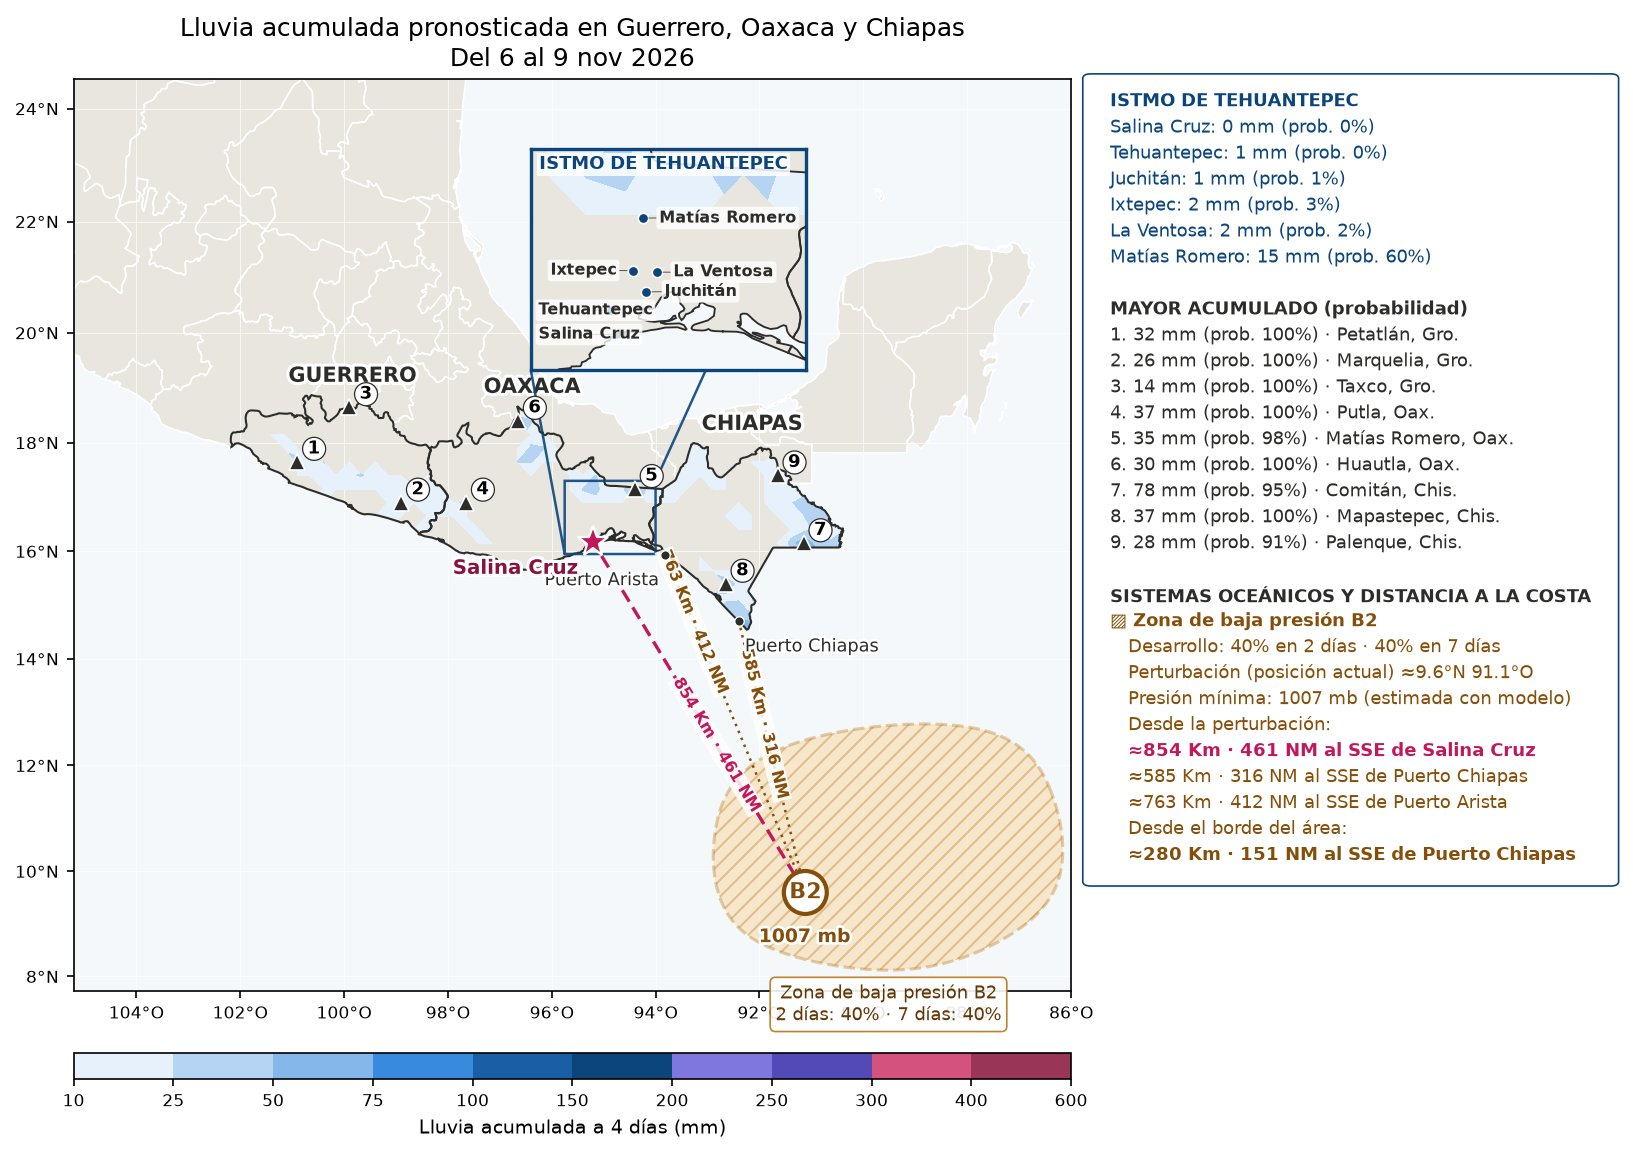
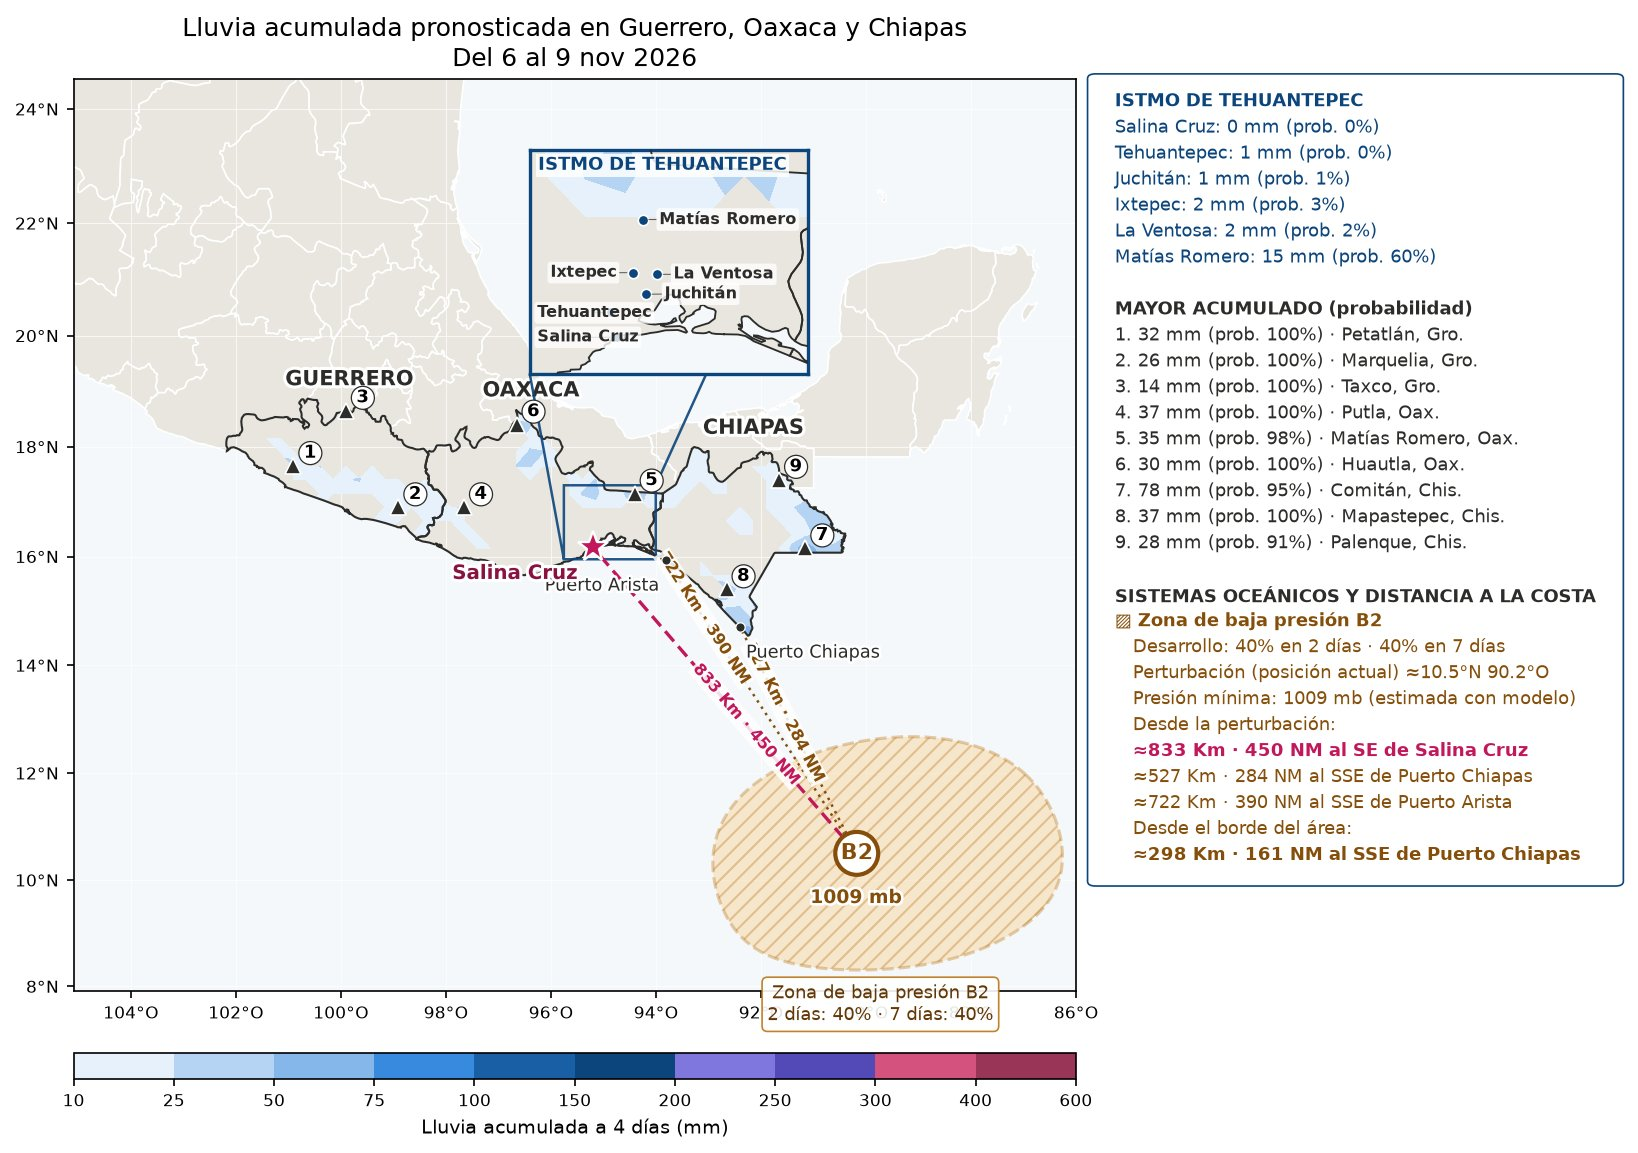
Monitor 06/11 06:27 (mapas nuevos)

diff --git a/index.html b/index.html
@@ -62,7 +62,7 @@ pre{overflow-x:auto;font-size:.75rem;background:var(--bg);padding:10px;border-ra
 <section class="t" id="sec_log"><details><summary>Registro (últimas líneas)</summary><pre id="log"></pre></details></section>
 </main>
 <div id="zoom"><img alt=""></div>
-<script id="datos" type="application/json">{"generado": "2026-11-06T05:57:04.924486", "ultima_revision": "2026-11-06T05:57:04.875523", "decision": "cambios menores en espera", "ultima_imagen": "2026-11-06T03:20:16.865587", "motivo_imagen": "cambios acumulados en 3 h: modelo", "pendientes": ["zonas"], "intervalo_h": 3, "resumen": {"ciclones": {}, "zonas": [{"lat": 10.5, "lon": -90.2, "n": "2", "p2": 40, "p7": 40}]}, "historial": [{"fecha": "2026-11-04T02:30:17.814496", "motivo": "cambios acumulados en 3 h: modelo"}, {"fecha": "2026-11-04T06:07:16.699309", "motivo": "cambios acumulados en 3 h: zonas"}, {"fecha": "2026-11-04T09:20:08.184753", "motivo": "cambios acumulados en 3 h: modelo"}, {"fecha": "2026-11-04T12:27:16.763868", "motivo": "cambios acumulados en 3 h: zonas"}, {"fecha": "2026-11-04T17:41:02.935370", "motivo": "CAMBIO SIGNIFICATIVO: zona de baja presión: 30/50% → 40/60% (2/7 días)"}, {"fecha": "2026-11-04T20:50:31.287696", "motivo": "cambios acumulados en 3 h: modelo"}, {"fecha": "2026-11-05T02:30:11.384999", "motivo": "cambios acumulados en 3 h: modelo"}, {"fecha": "2026-11-05T05:57:19.037606", "motivo": "cambios acumulados en 3 h: zonas"}, {"fecha": "2026-11-05T09:10:25.609675", "motivo": "cambios acumulados en 3 h: modelo"}, {"fecha": "2026-11-05T11:47:18.609423", "motivo": "CAMBIO SIGNIFICATIVO: zona de baja presión: 40/60% → 40/50% (2/7 días)"}, {"fecha": "2026-11-05T15:00:14.907001", "motivo": "cambios acumulados en 3 h: modelo"}, {"fecha": "2026-11-05T17:47:16.654961", "motivo": "CAMBIO SIGNIFICATIVO: zona de baja presión: 40/50% → 40/40% (2/7 días)"}, {"fecha": "2026-11-05T21:00:07.785836", "motivo": "cambios acumulados en 3 h: modelo"}, {"fecha": "2026-11-06T00:07:18.516460", "motivo": "cambios acumulados en 3 h: zonas"}, {"fecha": "2026-11-06T03:20:16.865587", "motivo": "cambios acumulados en 3 h: modelo"}], "imagenes": {"lluvia": {"src": "lluvia.jpg?v=202611060320", "fecha": "2026-11-06T03:20:08.723365"}, "viento": {"src": "viento.jpg?v=202611060320", "fecha": "2026-11-06T03:20:14.939746"}}, "log": [], "umbral_av": 50, "umbral_mal": 110}</script>
+<script id="datos" type="application/json">{"generado": "2026-11-06T06:27:18.417731", "ultima_revision": "2026-11-06T06:27:18.371045", "decision": "imágenes generadas", "ultima_imagen": "2026-11-06T06:27:18.371045", "motivo_imagen": "cambios acumulados en 3 h: zonas", "pendientes": [], "intervalo_h": 3, "resumen": {"ciclones": {}, "zonas": [{"lat": 10.5, "lon": -90.2, "n": "2", "p2": 40, "p7": 40}]}, "historial": [{"fecha": "2026-11-04T06:07:16.699309", "motivo": "cambios acumulados en 3 h: zonas"}, {"fecha": "2026-11-04T09:20:08.184753", "motivo": "cambios acumulados en 3 h: modelo"}, {"fecha": "2026-11-04T12:27:16.763868", "motivo": "cambios acumulados en 3 h: zonas"}, {"fecha": "2026-11-04T17:41:02.935370", "motivo": "CAMBIO SIGNIFICATIVO: zona de baja presión: 30/50% → 40/60% (2/7 días)"}, {"fecha": "2026-11-04T20:50:31.287696", "motivo": "cambios acumulados en 3 h: modelo"}, {"fecha": "2026-11-05T02:30:11.384999", "motivo": "cambios acumulados en 3 h: modelo"}, {"fecha": "2026-11-05T05:57:19.037606", "motivo": "cambios acumulados en 3 h: zonas"}, {"fecha": "2026-11-05T09:10:25.609675", "motivo": "cambios acumulados en 3 h: modelo"}, {"fecha": "2026-11-05T11:47:18.609423", "motivo": "CAMBIO SIGNIFICATIVO: zona de baja presión: 40/60% → 40/50% (2/7 días)"}, {"fecha": "2026-11-05T15:00:14.907001", "motivo": "cambios acumulados en 3 h: modelo"}, {"fecha": "2026-11-05T17:47:16.654961", "motivo": "CAMBIO SIGNIFICATIVO: zona de baja presión: 40/50% → 40/40% (2/7 días)"}, {"fecha": "2026-11-05T21:00:07.785836", "motivo": "cambios acumulados en 3 h: modelo"}, {"fecha": "2026-11-06T00:07:18.516460", "motivo": "cambios acumulados en 3 h: zonas"}, {"fecha": "2026-11-06T03:20:16.865587", "motivo": "cambios acumulados en 3 h: modelo"}, {"fecha": "2026-11-06T06:27:18.371045", "motivo": "cambios acumulados en 3 h: zonas"}], "imagenes": {"lluvia": {"src": "lluvia.jpg?v=202611060627", "fecha": "2026-11-06T06:27:11.452315"}, "viento": {"src": "viento.jpg?v=202611060627", "fecha": "2026-11-06T06:27:16.707083"}}, "log": [], "umbral_av": 50, "umbral_mal": 110}</script>
 <script>
 const D = JSON.parse(document.getElementById("datos").textContent);
 const $ = id => document.getElementById(id);
